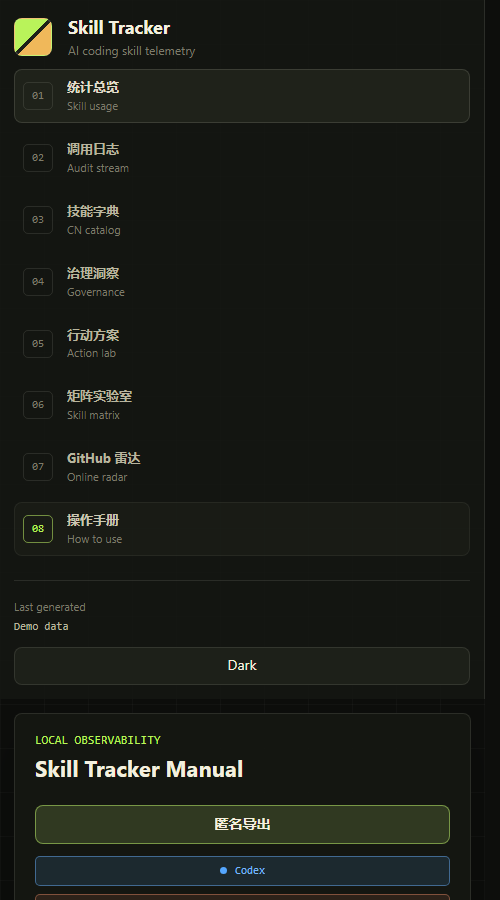
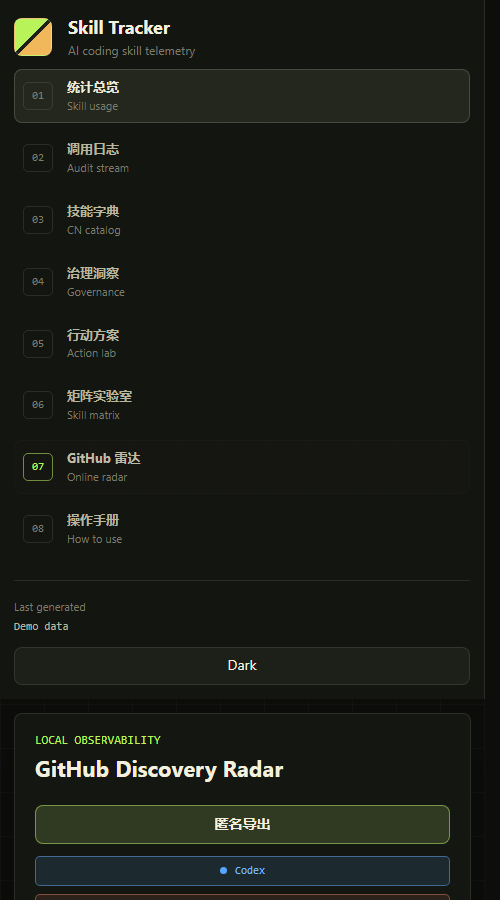
Add semantic GitHub search and duplicate cleanup exports

Changed region(s): [[0.06, 0.84, 0.57, 0.8711], [0.06, 0.56, 0.09, 0.5911], [0.06, 0.4978, 0.09, 0.5289]]

diff --git a/dashboard/index.html b/dashboard/index.html
@@ -1258,8 +1258,9 @@ tbody tr.data-row.expanded {
 .github-controls {
   display: grid;
   grid-template-columns: minmax(0, 1fr) auto;
-  gap: 10px;
-  align-items: end;
+  gap: 12px;
+  align-items: center;
+  margin-bottom: 14px;
 }
 
 .matrix-note,
@@ -1389,6 +1390,25 @@ tbody tr.data-row.expanded {
   border-radius: var(--radius);
   background: var(--surface);
   padding: 14px;
+}
+
+.skill-match-card {
+  border-color: color-mix(in srgb, var(--accent) 38%, var(--border));
+}
+
+.cleanup-actions {
+  display: flex;
+  gap: 10px;
+  align-items: center;
+  justify-content: flex-end;
+  flex-wrap: wrap;
+}
+
+.cleanup-hint {
+  color: var(--dim);
+  font-size: 11px;
+  line-height: 1.5;
+  margin-bottom: 12px;
 }
 
 .repo-head,
@@ -1796,7 +1816,8 @@ tbody tr.data-row.expanded {
   }
 
   .github-actions .action-button,
-  .action-toolbar .action-button {
+  .action-toolbar .action-button,
+  .cleanup-actions .action-button {
     width: 100%;
   }
 
@@ -2075,8 +2096,13 @@ tbody tr.data-row.expanded {
               <h3 id="duplicateHeading">重复/相似检测</h3>
               <p>基于名称、描述、触发词和分类的相似度指纹</p>
             </div>
+            <div class="cleanup-actions">
+              <button type="button" class="action-button" id="exportDuplicatePlan">导出清理计划</button>
+              <button type="button" class="action-button" id="exportDuplicateScript">导出归档脚本</button>
+            </div>
           </div>
           <div class="section-body">
+            <div class="cleanup-hint">浏览器不会直接删除本机 skill。清理脚本默认只预览；审查后加 `-Apply` 才会把建议归档项移动到 `.skill-tracker-archive`。</div>
             <div class="insight-list" id="duplicateList"></div>
           </div>
         </section>
@@ -2147,7 +2173,7 @@ tbody tr.data-row.expanded {
             <div class="github-form">
               <label>
                 搜索关键词
-                <input id="githubKeyword" type="search" placeholder="例如 agent skills / tdd skill / skill tracker">
+                <input id="githubKeyword" type="search" placeholder="例如：我想找一个可以节省 token 的 skill">
               </label>
               <label>
                 指定仓库
@@ -2160,6 +2186,7 @@ tbody tr.data-row.expanded {
             </div>
           </div>
           <div class="github-status" id="githubStatus">未联网。输入关键词或仓库后点击按钮。</div>
+          <div class="repo-grid" id="githubSkillMatches"></div>
           <div class="github-update" id="githubUpdateResult">指定仓库检查结果会显示在这里。</div>
           <div class="repo-grid" id="githubRepoResults"></div>
         </div>
@@ -2407,6 +2434,8 @@ tbody tr.data-row.expanded {
     flowList: document.getElementById("flowList"),
     healthList: document.getElementById("healthList"),
     duplicateList: document.getElementById("duplicateList"),
+    exportDuplicatePlan: document.getElementById("exportDuplicatePlan"),
+    exportDuplicateScript: document.getElementById("exportDuplicateScript"),
     conflictList: document.getElementById("conflictList"),
     actionSummary: document.getElementById("actionSummary"),
     actionList: document.getElementById("actionList"),
@@ -2421,6 +2450,7 @@ tbody tr.data-row.expanded {
     githubSearch: document.getElementById("githubSearch"),
     githubCheckRepo: document.getElementById("githubCheckRepo"),
     githubStatus: document.getElementById("githubStatus"),
+    githubSkillMatches: document.getElementById("githubSkillMatches"),
     githubUpdateResult: document.getElementById("githubUpdateResult"),
     githubRepoResults: document.getElementById("githubRepoResults"),
     manualGrid: document.getElementById("manualGrid"),
@@ -2541,6 +2571,8 @@ tbody tr.data-row.expanded {
     els.exportAnonymous.addEventListener("click", exportAnonymousReport);
     els.exportActionIssues.addEventListener("click", exportActionIssues);
     els.exportActionJson.addEventListener("click", exportActionJson);
+    els.exportDuplicatePlan.addEventListener("click", exportDuplicateCleanupPlan);
+    els.exportDuplicateScript.addEventListener("click", exportDuplicateArchiveScript);
     els.exportMatrixJson.addEventListener("click", exportMatrixJson);
     els.githubSearch.addEventListener("click", searchGitHubProjects);
     els.githubCheckRepo.addEventListener("click", checkGitHubRepo);
@@ -2774,12 +2806,133 @@ tbody tr.data-row.expanded {
       els.duplicateList.innerHTML = '<div class="empty-state">没有发现明显重复技能</div>';
       return;
     }
+    var cleanupPlan = buildDuplicateCleanupPlan(duplicates);
+    var cleanupByPair = {};
+    cleanupPlan.items.forEach(function (item) {
+      cleanupByPair[duplicatePairKey(item.keep_skill, item.archive_skill)] = item;
+    });
     els.duplicateList.innerHTML = duplicates.slice(0, 12).map(function (row) {
+      var cleanup = cleanupByPair[duplicatePairKey(row.a, row.b)];
+      var cleanupText = cleanup
+        ? '建议保留 ' + cleanup.keep_skill + '，归档 ' + cleanup.archive_skill + '。'
+        : '建议人工确认保留项，避免误归档链式依赖 skill。';
       return '<div class="risk-row medium">'
         + '<div class="risk-head"><span class="risk-tag">' + escapeHtml(row.a) + '</span><span class="chain-arrow">≈</span><span class="risk-tag">' + escapeHtml(row.b) + '</span></div>'
         + '<div class="risk-meta">相似度 ' + Math.round(row.score * 100) + '%，共同分类：' + escapeHtml(row.category) + '。建议检查是否可合并、改名或补充触发边界。</div>'
+        + '<div class="risk-meta">' + escapeHtml(cleanupText) + '</div>'
         + '</div>';
     }).join("");
+  }
+
+  function buildDuplicateCleanupPlan(duplicates) {
+    var removed = {};
+    var items = [];
+    duplicates.slice(0, 50).forEach(function (pair) {
+      var choice = chooseDuplicateCleanup(pair, removed);
+      if (!choice) return;
+      removed[choice.archive] = true;
+      items.push({
+        pair: [pair.a, pair.b],
+        keep_skill: choice.keep,
+        archive_skill: choice.archive,
+        score: Number(pair.score.toFixed(4)),
+        category: pair.category,
+        reason: choice.reason,
+        keep_source_path: skillSourcePath(choice.keep),
+        archive_source_path: skillSourcePath(choice.archive),
+        action: "archive_folder"
+      });
+    });
+    return {
+      schema: "skill-tracker-duplicate-cleanup-plan@1",
+      generated_at: new Date().toISOString(),
+      strategy: "keep stronger usage/translation/metadata; archive lower-confidence duplicate",
+      safety: "review-first; browser never deletes local files; generated script previews by default and only archives with -Apply",
+      items: items
+    };
+  }
+
+  function chooseDuplicateCleanup(pair, removed) {
+    if (removed[pair.a] || removed[pair.b]) return null;
+    var a = skillRowByName[pair.a];
+    var b = skillRowByName[pair.b];
+    if (!a || !b) return null;
+    var scoreA = duplicateRetentionScore(a);
+    var scoreB = duplicateRetentionScore(b);
+    var keep = scoreA >= scoreB ? pair.a : pair.b;
+    var archive = keep === pair.a ? pair.b : pair.a;
+    return {
+      keep: keep,
+      archive: archive,
+      reason: "保留项在调用量、中文说明、触发词或来源路径上更完整。"
+    };
+  }
+
+  function duplicateRetentionScore(row) {
+    var catalog = catalogBySkill[row.skill] || {};
+    var score = 0;
+    score += Number(row.dedupCount || 0) * 5;
+    score += Number(row.rawCount || 0);
+    if (isTranslated(row)) score += 24;
+    if (usefulOriginalDesc(row.desc) || usefulOriginalDesc(catalog.english_desc)) score += 10;
+    if (normalizeTriggers(catalog.triggers).length) score += 8;
+    if (catalog.source_path) score += 6;
+    return score;
+  }
+
+  function duplicatePairKey(a, b) {
+    return [a, b].sort().join("::");
+  }
+
+  function skillSourcePath(skill) {
+    var catalog = catalogBySkill[skill] || {};
+    return String(catalog.source_path || "");
+  }
+
+  function exportDuplicateCleanupPlan() {
+    downloadJson("skill-tracker-duplicate-cleanup-plan.json", buildDuplicateCleanupPlan(findDuplicateSkillPairs()));
+  }
+
+  function exportDuplicateArchiveScript() {
+    var plan = buildDuplicateCleanupPlan(findDuplicateSkillPairs());
+    downloadText("skill-tracker-archive-duplicates.ps1", buildDuplicateArchiveScript(plan), "text/plain;charset=utf-8");
+  }
+
+  function buildDuplicateArchiveScript(plan) {
+    var localItems = plan.items.filter(function (item) {
+      return item.archive_source_path && !/^demo:\/\//i.test(item.archive_source_path);
+    });
+    var lines = [
+      "# Generated by Skill Tracker.",
+      "# Review this file before running. It archives duplicate skill folders; it does not permanently delete them.",
+      "# Default mode is preview. Run with -Apply to move folders into the archive.",
+      "param([switch]$Apply, [string]$ArchiveRoot = (Join-Path (Get-Location) '.skill-tracker-archive'))",
+      "$ErrorActionPreference = 'Stop'",
+      "$items = @("
+    ];
+    localItems.forEach(function (item) {
+      lines.push("  [pscustomobject]@{ Skill = '" + psQuote(item.archive_skill) + "'; Keep = '" + psQuote(item.keep_skill) + "'; SourceSkillFile = '" + psQuote(item.archive_source_path) + "'; Reason = '" + psQuote(item.reason) + "' }");
+    });
+    lines.push(")");
+    lines.push("if (-not $items.Count) { Write-Host 'No local duplicate skill paths were exported.'; exit 0 }");
+    lines.push("if (-not $Apply) { Write-Host 'Preview mode. Re-run with -Apply to archive these folders.' }");
+    lines.push("if ($Apply) { New-Item -ItemType Directory -Path $ArchiveRoot -Force | Out-Null }");
+    lines.push("foreach ($item in $items) {");
+    lines.push("  if (-not (Test-Path -LiteralPath $item.SourceSkillFile)) { Write-Warning ('Missing skill file: {0}' -f $item.SourceSkillFile); continue }");
+    lines.push("  $skillDir = Split-Path -Parent $item.SourceSkillFile");
+    lines.push("  if (-not (Test-Path -LiteralPath $skillDir)) { Write-Warning ('Missing skill directory: {0}' -f $skillDir); continue }");
+    lines.push("  $dest = Join-Path $ArchiveRoot $item.Skill");
+    lines.push("  if (Test-Path -LiteralPath $dest) { $dest = Join-Path $ArchiveRoot ($item.Skill + '-' + (Get-Date -Format 'yyyyMMdd-HHmmss')) }");
+    lines.push("  if (-not $Apply) { Write-Host ('Would archive {0} -> {1}; keep {2}' -f $item.Skill, $dest, $item.Keep); continue }");
+    lines.push("  Move-Item -LiteralPath $skillDir -Destination $dest");
+    lines.push("  Write-Host ('Archived {0} -> {1}; keep {2}' -f $item.Skill, $dest, $item.Keep)");
+    lines.push("}");
+    lines.push("if ($Apply) { Write-Host 'Done. Re-run collect.ps1 after reviewing the archive.' }");
+    return lines.join("\n") + "\n";
+  }
+
+  function psQuote(value) {
+    return String(value || "").replace(/'/g, "''");
   }
 
   function renderConflictList(conflicts) {
@@ -3043,8 +3196,9 @@ tbody tr.data-row.expanded {
 
   function initGitHubRadar() {
     if (!els.githubKeyword.value.trim()) {
-      els.githubKeyword.value = suggestedGitHubQuery();
+      els.githubKeyword.value = "我想找一个可以节省 token 的 skill";
     }
+    renderGitHubSkillMatches(buildGitHubSearchIntent(els.githubKeyword.value));
   }
 
   function suggestedGitHubQuery() {
@@ -3054,15 +3208,15 @@ tbody tr.data-row.expanded {
 
   async function searchGitHubProjects() {
     var keyword = els.githubKeyword.value.trim() || suggestedGitHubQuery();
+    var intent = buildGitHubSearchIntent(keyword);
     els.githubKeyword.value = keyword;
+    renderGitHubSkillMatches(intent);
     setGitHubBusy(true);
-    setGitHubStatus("正在搜索 GitHub 公开仓库：" + keyword);
+    setGitHubStatus("已将输入解析为 GitHub 查询：" + intent.githubQuery);
     els.githubRepoResults.innerHTML = '<div class="empty-state">正在联网搜索...</div>';
     try {
-      var query = keyword;
-      if (!/skill|agent|prompt/i.test(query)) query += " agent skill";
       var url = "https://api.github.com/search/repositories?q="
-        + encodeURIComponent(query)
+        + encodeURIComponent(intent.githubQuery)
         + "&sort=stars&order=desc&per_page=8";
       var response = await fetch(url, { headers: { Accept: "application/vnd.github+json" } });
       var payload = await response.json();
@@ -3073,6 +3227,100 @@ tbody tr.data-row.expanded {
     } finally {
       setGitHubBusy(false);
     }
+  }
+
+  function buildGitHubSearchIntent(input) {
+    var text = String(input || "").trim();
+    var lower = text.toLowerCase();
+    var expansions = [];
+    var queryTerms = [];
+    var concepts = [
+      { test: /token|上下文|省|节省|压缩|精简|低成本|成本|context|compress|compact/i, query: "token compression agent skill", words: ["token saving", "context compression", "prompt compression", "agent skill"], skills: ["caveman", "caveman-compress", "caveman-stats"] },
+      { test: /记忆|记住|回忆|长期|memory|remember|recall/i, query: "agent memory skill", words: ["agent memory", "memory skill", "recall remember"], skills: ["remember", "recall", "agentmemory-mcp-tools"] },
+      { test: /测试|单测|tdd|质量|验证|test/i, query: "test driven development agent skill", words: ["test driven development", "testing agent skill", "quality gate"], skills: ["tdd", "diagnose"] },
+      { test: /诊断|排查|bug|故障|debug|修复/i, query: "debugging diagnose agent workflow", words: ["debugging agent", "diagnose workflow", "bug triage"], skills: ["diagnose", "tdd"] },
+      { test: /ui|界面|设计|前端|美化|视觉|动效|design|frontend/i, query: "web design ui review agent skill", words: ["web design guidelines", "frontend agent skill", "ui review"], skills: ["web-design-guidelines", "visual-style", "framer-motion"] },
+      { test: /视频|剪辑|音频|配音|字幕|video|audio|tts/i, query: "video audio ai workflow skill", words: ["video audio ai workflow", "media generation skill"], skills: ["video-edit", "ffmpeg", "text-to-speech"] },
+      { test: /论文|研究|资料|调研|research|paper|academic/i, query: "deep research academic paper agent", words: ["deep research agent", "academic paper workflow"], skills: ["deep-research", "academic-paper", "academic-pipeline"] },
+      { test: /github|开源|仓库|项目|repo|repository/i, query: "open source agent skills", words: ["github repository", "open source agent skills"], skills: ["find-skills"] }
+    ];
+    concepts.forEach(function (concept) {
+      if (!concept.test.test(lower)) return;
+      queryTerms.push(concept.query);
+      expansions = expansions.concat(concept.words).concat(concept.skills);
+    });
+
+    var matches = findLocalSkillMatches(text, expansions).slice(0, 6);
+    matches.forEach(function (match) {
+      expansions.push(match.skill);
+      if (match.category) expansions.push(match.category);
+    });
+
+    if (!expansions.length) expansions = ["agent skill", "SKILL.md", text || "agent skills"];
+    var bestMatch = matches[0] ? matches[0].skill : "";
+    var githubQuery = (queryTerms[0] || (/[^\x00-\x7F]/.test(text) && bestMatch ? bestMatch + " agent skill" : text + " agent skill")).trim();
+    githubQuery = unique([githubQuery, "SKILL.md"]).join(" ");
+    return {
+      input: text,
+      githubQuery: githubQuery,
+      matches: matches
+    };
+  }
+
+  function findLocalSkillMatches(input, expansions) {
+    var query = String(input || "").toLowerCase();
+    var queryTokens = tokenSet(query + " " + expansions.join(" "));
+    return catalogRows.map(function (row) {
+      var catalog = catalogBySkill[row.skill] || {};
+      var haystack = [
+        row.skill,
+        row.category,
+        row.zhDesc,
+        row.desc,
+        catalog.english_desc || "",
+        normalizeTriggers(catalog.triggers).join(" ")
+      ].join(" ").toLowerCase();
+      var score = 0;
+      Object.keys(queryTokens).forEach(function (token) {
+        if (haystack.indexOf(token) !== -1) score += token.length > 3 ? 3 : 1;
+      });
+      if (query && haystack.indexOf(query) !== -1) score += 12;
+      expansions.forEach(function (word) {
+        if (row.skill === word) score += 18;
+        if (haystack.indexOf(String(word).toLowerCase()) !== -1) score += 4;
+      });
+      if (getCount(row) > 0) score += 1;
+      return {
+        skill: row.skill,
+        category: row.category,
+        zhDesc: row.zhDesc,
+        desc: row.desc,
+        count: getCount(row),
+        score: score
+      };
+    }).filter(function (row) {
+      return row.score > 0;
+    }).sort(function (a, b) {
+      return b.score - a.score || b.count - a.count || a.skill.localeCompare(b.skill);
+    });
+  }
+
+  function renderGitHubSkillMatches(intent) {
+    if (!intent.matches.length) {
+      els.githubSkillMatches.innerHTML = '<div class="empty-state">本地没有明显匹配的 skill；会直接使用关键词搜索 GitHub。</div>';
+      return;
+    }
+    els.githubSkillMatches.innerHTML = intent.matches.map(function (match) {
+      var desc = match.zhDesc || match.desc || "暂无说明。";
+      return '<article class="repo-card skill-match-card">'
+        + '<div class="repo-head">'
+        + '<div class="repo-title">' + escapeHtml(match.skill) + '</div>'
+        + '<span class="repo-tag">' + formatNum(match.count) + ' calls</span>'
+        + '</div>'
+        + '<div class="repo-meta">' + escapeHtml(desc) + '</div>'
+        + '<div class="repo-tags"><span class="repo-tag">' + escapeHtml(match.category) + '</span><span class="repo-tag">本地意图命中</span></div>'
+        + '</article>';
+    }).join("");
   }
 
   async function checkGitHubRepo() {
@@ -3183,7 +3431,7 @@ tbody tr.data-row.expanded {
       {
         title: "治理洞察",
         step: "发现问题",
-        body: "用于识别高频链路、低健康 skill、重复/相似 skill 和冲突风险。它回答的是 skill 体系哪里可能变乱。"
+        body: "用于识别高频链路、低健康 skill、重复/相似 skill 和冲突风险。重复项可以导出清理计划和归档脚本，网页不会直接删文件。"
       },
       {
         title: "行动方案",
@@ -3198,7 +3446,7 @@ tbody tr.data-row.expanded {
       {
         title: "GitHub 雷达",
         step: "联网探索",
-        body: "用于搜索公开仓库、检查指定仓库更新和 release。它只访问公开 GitHub API，失败时不会影响本地 dashboard。"
+        body: "支持中文意图输入，会先命中本地 skill，再扩展为 GitHub 查询。它只访问公开 GitHub API，失败时不影响本地 dashboard。"
       },
       {
         title: "匿名导出",